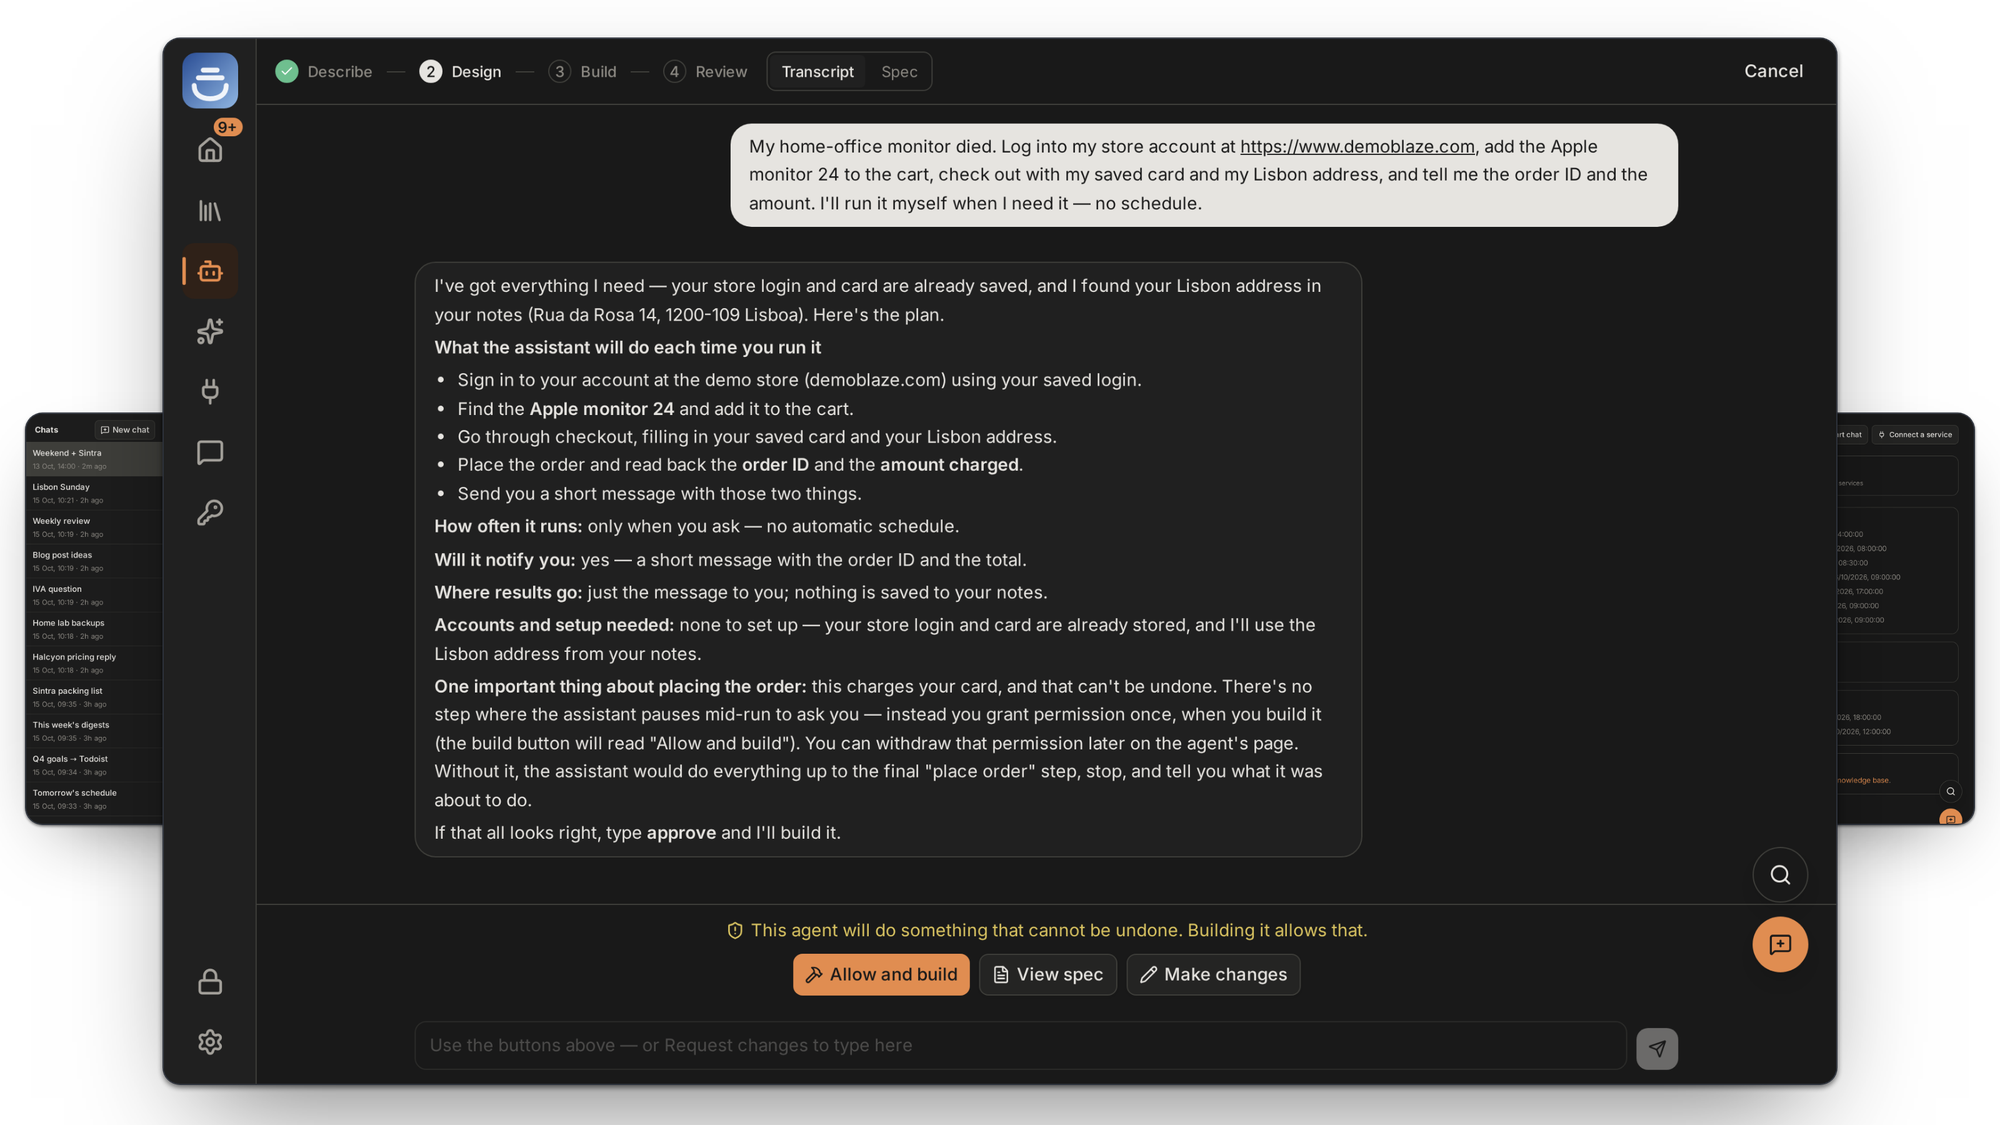
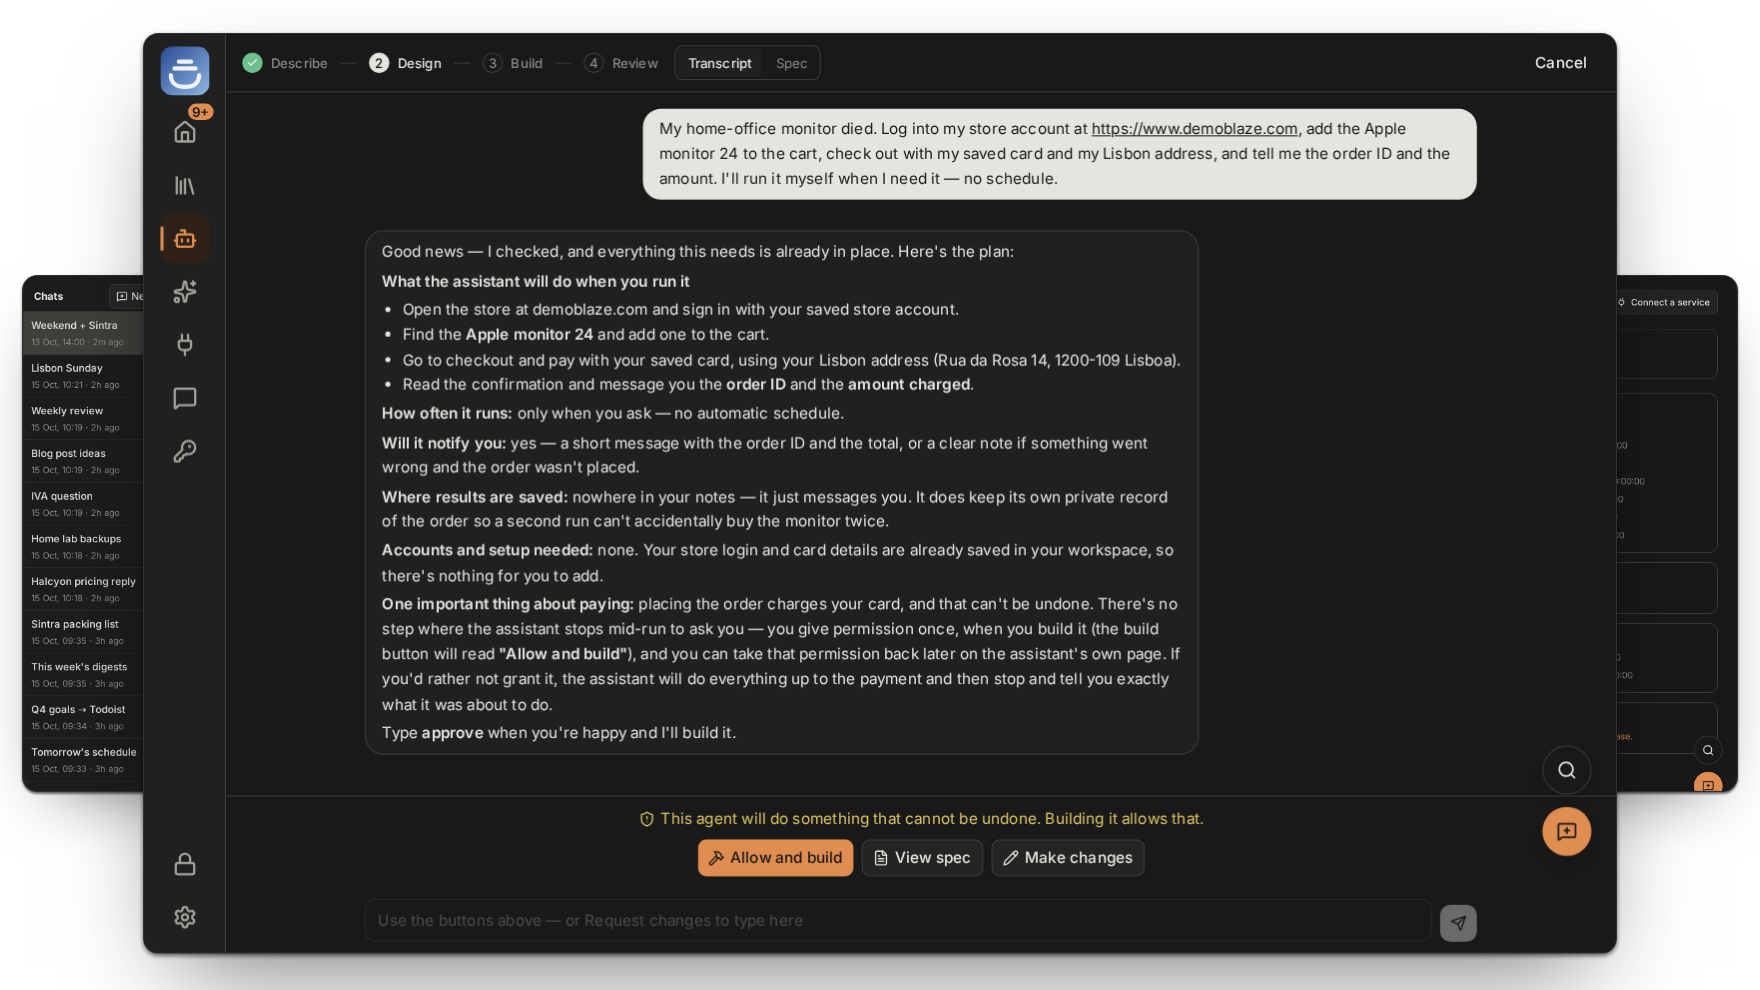
docs(readme): sharper hero and an animated tour
The hero's centre is captured at the density it is shown at (1474px for
the 1440px page) and composed at 1.1x, so the browser draws its text at
final size instead of a 2x capture being shrunk; the side cards are
taller. "A look around" becomes a 33-second GIF tour recorded frame by
frame from the running app and encoded with gifski, in light and dark.

diff --git a/README.md b/README.md
@@ -81,8 +81,8 @@ make build
 ## A look around
 
 <picture>
-  <source media="(prefers-color-scheme: dark)" srcset="docs/assets/screenshots/tour-dark.png">
-  <img src="docs/assets/screenshots/tour-light.png" alt="Rookery's screens: the home dashboard, a knowledge base note with the AI actions menu open, a chat, an agent with its last run, the workspace picker, connected services, secrets, the agent list, skills and the AI provider settings." width="100%">
+  <source media="(prefers-color-scheme: dark)" srcset="docs/assets/screenshots/tour-dark.gif">
+  <img src="docs/assets/screenshots/tour-light.gif" alt="A tour of Rookery: the home dashboard, an agent and its last run, a knowledge base note with the AI actions menu, a chat, searching services, AI provider settings, secrets and skills." width="100%">
 </picture>
 
 Rookery connects to 130+ services with 900+ curated actions, over OAuth or an
